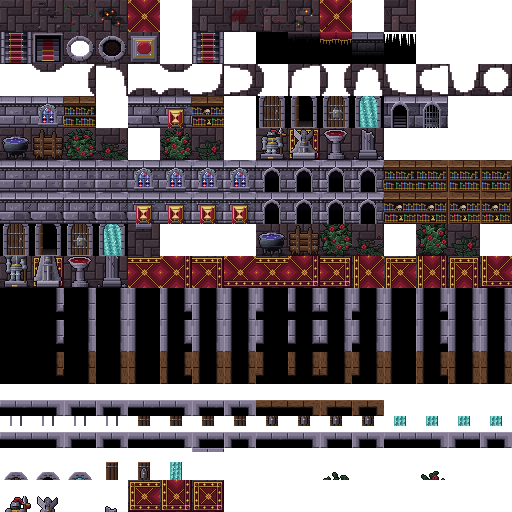
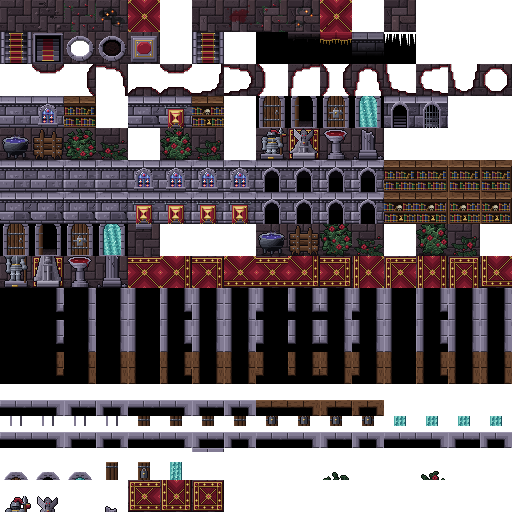
흡혈귀의 성 핏물을 고해상도로 다시 그림
- 핏물 물결 그림을 128x128(타일과 같은 밀도)로: 끈적하게 휘감긴 얼룩, 고르게 흩어진
  물결 빛줄기와 반짝임, 거품·엉긴 핏덩이. 4x4칸마다 되풀이해서 반복 무늬가 덜 보임
- 물 그림 밀도를 층마다 정할 수 있게 함(Level.waterTexScale): 촘촘한 물은 반 크기로 깔고
  흐르는 빠르기는 원작과 같게 (연금 화면 배경·정보 창 그림도 같이)
- 웅덩이 가장자리: 계단진 테두리를 둥글게 다듬고, 위·왼쪽은 빛 받는 물 테,
  아래·오른쪽은 어두운 물 테, 둘레 벽돌은 피에 젖어 어둡게 (성·지하 묘지 모두)

Claude-Session: https://claude.ai/code/session_01APSKFNB8xpLfNtbCfNBsyA

Changed region(s): [[0.5625, 0.125, 1.0, 0.1875], [0.1562, 0.125, 0.5312, 0.1875], [0.0625, 0.125, 0.125, 0.1562]]

diff --git a/core/src/main/java/com/shatteredpixel/shatteredpixeldungeon/scenes/GameScene.java b/core/src/main/java/com/shatteredpixel/shatteredpixeldungeon/scenes/GameScene.java
@@ -164,6 +164,7 @@ public class GameScene extends PixelScene {
 	static GameScene scene;
 
 	private SkinnedBlock water;
+	private int waterK = 1;
 	private DungeonTerrainTilemap tiles;
 	private GridTileMap visualGrid;
 	private WallOcclusionTilemap occlusion;
@@ -273,6 +274,9 @@ public class GameScene extends PixelScene {
 			}
 		};
 		water.autoAdjust = true;
+		//모드: 촘촘히 찍은 물 그림은 그만큼 줄여 깔고, 흐르는 빠르기는 원작과 같게
+		waterK = Dungeon.level.waterTexScale();
+		if (waterK > 1) water.scale( 1f / waterK, 1f / waterK );
 		terrain.add( water );
 
 		ripples = new Group();
@@ -899,7 +903,7 @@ public class GameScene extends PixelScene {
 		if (notifyDelay > 0) notifyDelay -= Game.elapsed;
 
 		if (!Emitter.freezeEmitters) {
-			waterOfs -= 5 * Game.elapsed;
+			waterOfs -= 5 * waterK * Game.elapsed;
 			water.offsetTo( 0, waterOfs );
 			waterOfs = water.offsetY(); //re-assign to account for auto adjust
 		}

diff --git a/core/src/main/java/com/shatteredpixel/shatteredpixeldungeon/scenes/AlchemyScene.java b/core/src/main/java/com/shatteredpixel/shatteredpixeldungeon/scenes/AlchemyScene.java
@@ -102,6 +102,7 @@ public class AlchemyScene extends PixelScene {
 	
 	private Emitter lowerBubbles;
 	private SkinnedBlock water;
+	private int waterK = 1;
 
 	private Image energyIcon;
 	private RenderedTextBlock energyLeft;
@@ -144,6 +145,9 @@ public class AlchemyScene extends PixelScene {
 			}
 		};
 		water.autoAdjust = true;
+		//모드: 촘촘히 찍은 물 그림은 그만큼 줄여 깜
+		waterK = Dungeon.level.waterTexScale();
+		if (waterK > 1) water.scale( 1f / waterK, 1f / waterK );
 		add(water);
 		
 		Image im = new Image(TextureCache.createGradient(0x66000000, 0x88000000, 0xAA000000, 0xCC000000, 0xFF000000));
@@ -553,7 +557,7 @@ public class AlchemyScene extends PixelScene {
 	@Override
 	public void update() {
 		super.update();
-		water.offset( 0, -5 * Game.elapsed );
+		water.offset( 0, -5 * waterK * Game.elapsed );
 	}
 	
 	@Override

diff --git a/core/src/main/java/com/shatteredpixel/shatteredpixeldungeon/windows/WndInfoCell.java b/core/src/main/java/com/shatteredpixel/shatteredpixeldungeon/windows/WndInfoCell.java
@@ -75,7 +75,9 @@ public class WndInfoCell extends Window {
 
 			if (tile == Terrain.WATER) {
 				Image water = new Image(Dungeon.level.waterTex());
-				water.frame(0, 0, DungeonTilemap.SIZE, DungeonTilemap.SIZE);
+				int k = Dungeon.level.waterTexScale();
+				water.frame(0, 0, DungeonTilemap.SIZE * k, DungeonTilemap.SIZE * k);
+				water.scale.set( 1f / k );
 				return water;
 			} else {
 				return DungeonTerrainTilemap.tile(cell, tile);

diff --git a/core/src/main/java/com/shatteredpixel/shatteredpixeldungeon/levels/Level.java b/core/src/main/java/com/shatteredpixel/shatteredpixeldungeon/levels/Level.java
@@ -528,6 +528,11 @@ public abstract class Level implements Bundlable {
 	public String waterTex() {
 		return null;
 	}
+
+	//모드: 물 그림 텍셀이 칸 단위(16분의 1칸) 하나에 몇 개인지. 원작 물은 1, 촘촘히 찍은 물(흡혈귀의 성 핏물)은 2
+	public int waterTexScale() {
+		return 1;
+	}
 	
 	abstract protected boolean build();
 	

diff --git a/core/src/main/java/com/shatteredpixel/shatteredpixeldungeon/levels/VampireCastleLevel.java b/core/src/main/java/com/shatteredpixel/shatteredpixeldungeon/levels/VampireCastleLevel.java
@@ -56,6 +56,12 @@ public class VampireCastleLevel extends CavesLevel {
 		return Assets.Environment.WATER_BLOOD;
 	}
 
+	//핏물은 타일과 같은 32x32 밀도로 찍음
+	@Override
+	public int waterTexScale() {
+		return 2;
+	}
+
 	@Override
 	protected boolean veinSparkles() {
 		return false;

diff --git a/core/src/main/java/com/shatteredpixel/shatteredpixeldungeon/levels/VampireCastleBossLevel.java b/core/src/main/java/com/shatteredpixel/shatteredpixeldungeon/levels/VampireCastleBossLevel.java
@@ -101,6 +101,11 @@ public class VampireCastleBossLevel extends Level {
 	}
 
 	@Override
+	public int waterTexScale() {
+		return 2;
+	}
+
+	@Override
 	public String entryText() {
 		return bossDefeated ? null : Messages.get( this, "entry" );
 	}
